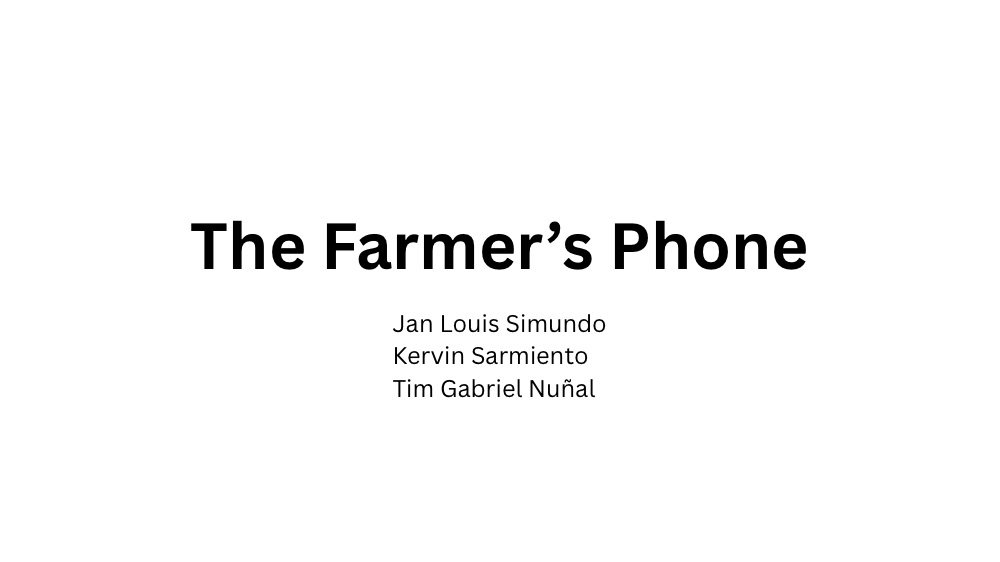
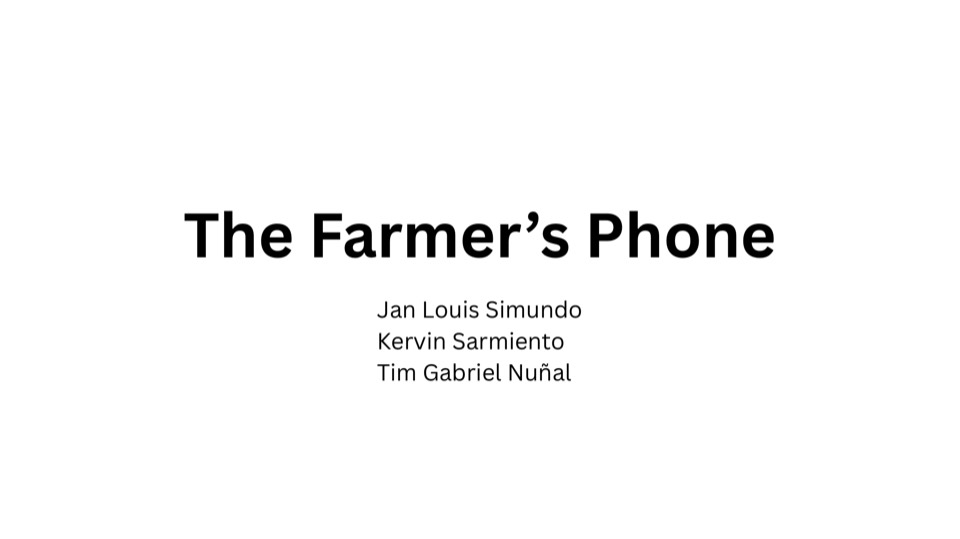
Optimise Multimedia card images: sharper 960px posters, smaller files, preload when idle

diff --git a/frontend/src/app.js b/frontend/src/app.js
@@ -727,7 +727,7 @@ void main() {
     <ul class="mx-auto grid max-w-[1280px] gap-6 md:grid-cols-2 xl:grid-cols-3">${C.multimedia.map((m, i) => `<li>${Reveal("h-full", `
       <button type="button" data-media="${i}" class="media-card group block h-full w-full overflow-hidden rounded-card border border-border bg-surface/70 text-left transition-[transform,border-color,box-shadow] duration-500 hover:-translate-y-1 hover:border-accent2 focus-visible:outline-2 focus-visible:outline-offset-2 focus-visible:outline-accent">
         <span class="relative block aspect-video overflow-hidden bg-bg">
-          ${m.poster ? `<img src="${BASE + m.poster}" alt="" loading="lazy" style="object-position:${m.posterPosition || "center"}" class="size-full object-cover transition-transform duration-700 group-hover:scale-105">` : `<span class="proj-cover" style="background:linear-gradient(135deg,#0ea5e9,#0c4a6e)"><span><b>${esc(m.title)}</b></span></span>`}
+          ${m.poster ? `<img src="${BASE + m.poster}" alt="" width="960" height="540" loading="lazy" decoding="async" style="object-position:${m.posterPosition || "center"}" class="size-full object-cover transition-transform duration-700 group-hover:scale-105">` : `<span class="proj-cover" style="background:linear-gradient(135deg,#0ea5e9,#0c4a6e)"><span><b>${esc(m.title)}</b></span></span>`}
           <span aria-hidden="true" class="absolute inset-0 bg-gradient-to-t from-black/55 to-transparent"></span>
           <span aria-hidden="true" class="media-play absolute left-1/2 top-1/2 grid size-16 place-items-center rounded-full bg-surface/90 text-accent shadow-2xl backdrop-blur transition-transform duration-500">${ico(m.file ? "file-text" : "play", 26)}</span>
           ${m.duration ? `<span class="absolute bottom-3 right-3 rounded-md bg-black/60 px-2 py-0.5 font-mono text-xs text-white">${esc(m.duration)}</span>` : ""}
@@ -750,6 +750,9 @@ void main() {
   function initMultimedia() {
     const dlg = $("[data-player]");
     if (!dlg) return;
+    // Warm the cache with the card images once the page is idle, so they are ready before the section scrolls in.
+    const warm = () => C.multimedia.forEach((m) => m.poster && (new Image().src = BASE + m.poster));
+    "requestIdleCallback" in window ? requestIdleCallback(warm, { timeout: 4000 }) : setTimeout(warm, 2500);
     const frame = $("[data-player-frame]", dlg), title = $("[data-player-title]", dlg);
     let opener = null;
     dlg.addEventListener("close", () => { frame.src = "about:blank"; document.documentElement.style.overflow = ""; opener?.focus(); });

diff --git a/frontend/index.html b/frontend/index.html
@@ -55,8 +55,8 @@
     <script src="https://cdnjs.cloudflare.com/ajax/libs/gsap/3.15.0/ScrollTrigger.min.js" defer></script>
     <script src="https://cdnjs.cloudflare.com/ajax/libs/gsap/3.15.0/ScrollToPlugin.min.js" defer></script>
     <script src="src/icons.js" defer></script>
-    <script src="src/content.js?v=6" defer></script>
-    <script src="src/app.js?v=6" defer></script>
+    <script src="src/content.js?v=7" defer></script>
+    <script src="src/app.js?v=7" defer></script>
     <script src="src/preloader.js" defer></script>
   </body>
 </html>

diff --git a/frontend/work/mind-bridge/index.html b/frontend/work/mind-bridge/index.html
@@ -29,7 +29,7 @@
     <script src="https://cdnjs.cloudflare.com/ajax/libs/gsap/3.15.0/ScrollTrigger.min.js" defer></script>
     <script src="https://cdnjs.cloudflare.com/ajax/libs/gsap/3.15.0/ScrollToPlugin.min.js" defer></script>
     <script src="../../src/icons.js" defer></script>
-    <script src="../../src/content.js?v=6" defer></script>
-    <script src="../../src/app.js?v=6" defer></script>
+    <script src="../../src/content.js?v=7" defer></script>
+    <script src="../../src/app.js?v=7" defer></script>
   </body>
 </html>

diff --git a/frontend/contact/index.html b/frontend/contact/index.html
@@ -29,7 +29,7 @@
     <script src="https://cdnjs.cloudflare.com/ajax/libs/gsap/3.15.0/ScrollTrigger.min.js" defer></script>
     <script src="https://cdnjs.cloudflare.com/ajax/libs/gsap/3.15.0/ScrollToPlugin.min.js" defer></script>
     <script src="../src/icons.js" defer></script>
-    <script src="../src/content.js?v=6" defer></script>
-    <script src="../src/app.js?v=6" defer></script>
+    <script src="../src/content.js?v=7" defer></script>
+    <script src="../src/app.js?v=7" defer></script>
   </body>
 </html>
